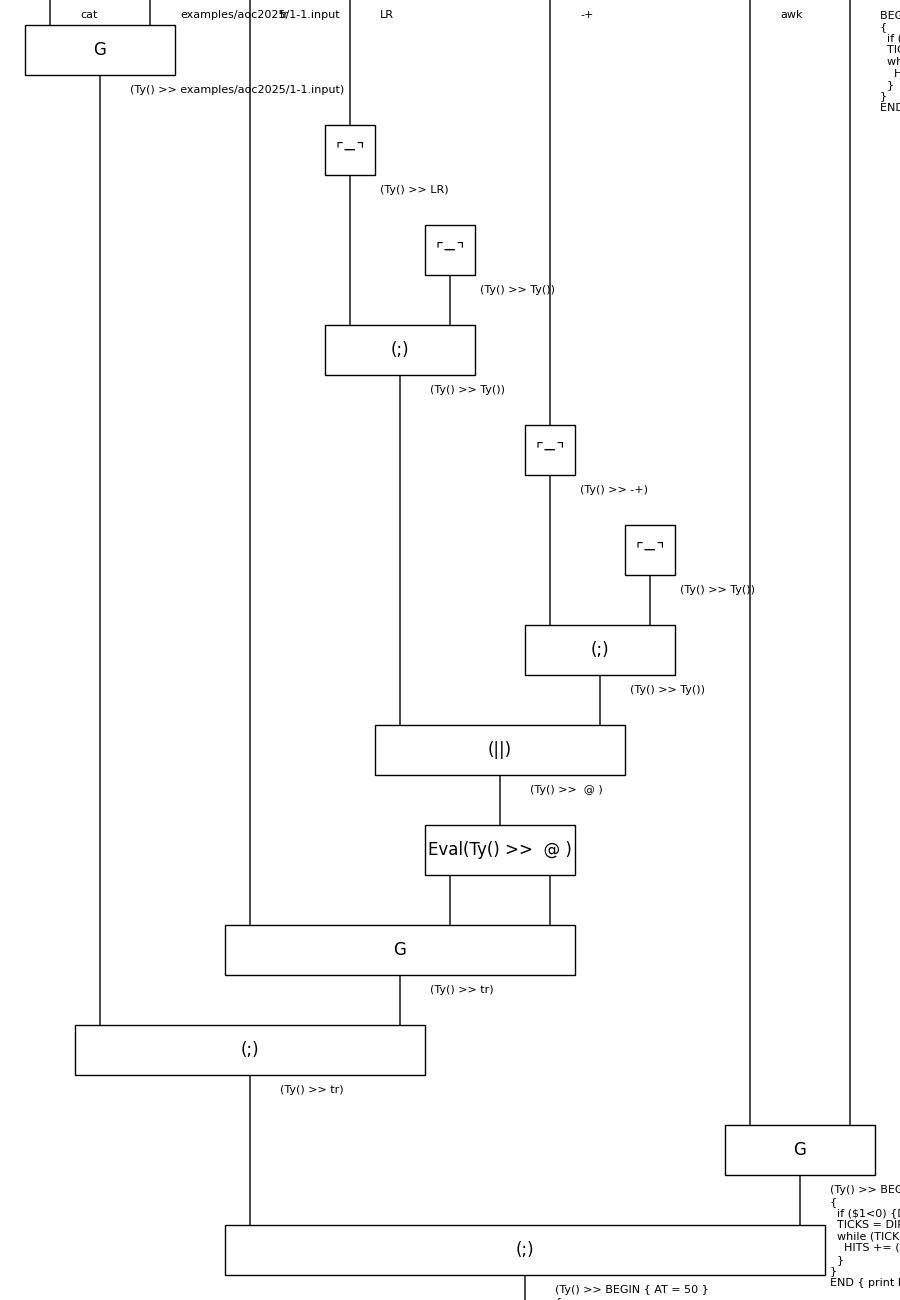
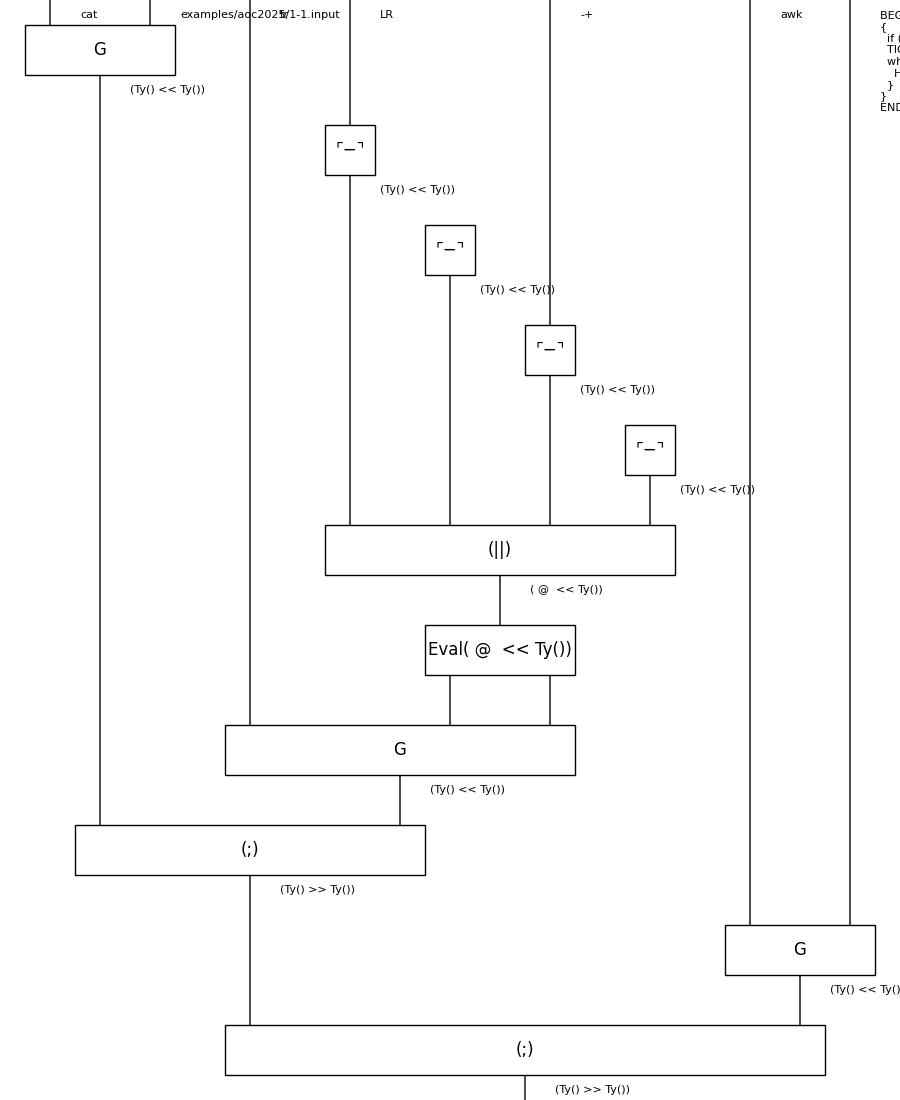
aoc day 3-1 and awk sum file

diff --git a/examples/aoc2025/README.md b/examples/aoc2025/README.md
@@ -35,3 +35,12 @@ $ python -m widip examples/aoc2025/2-2.yaml
 ```
 
 <img src="2-2.jpg" width="400">
+
+## Day 3-1
+
+```
+$ python -m widip examples/aoc2025/3-1.yaml
+17324
+```
+
+<img src="3-1.jpg" width="400">
